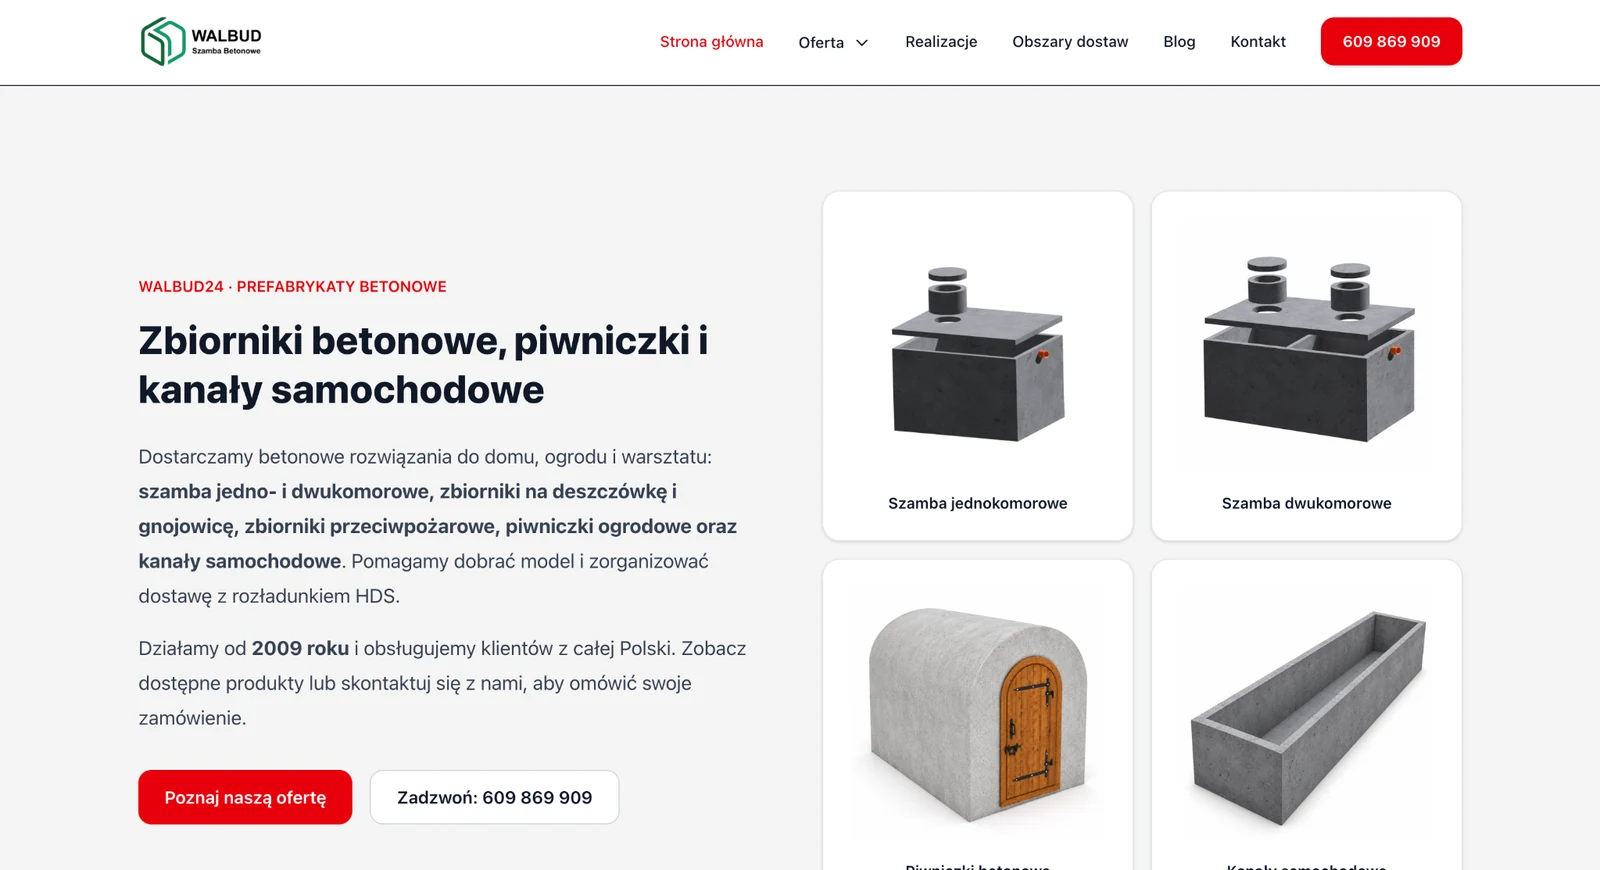
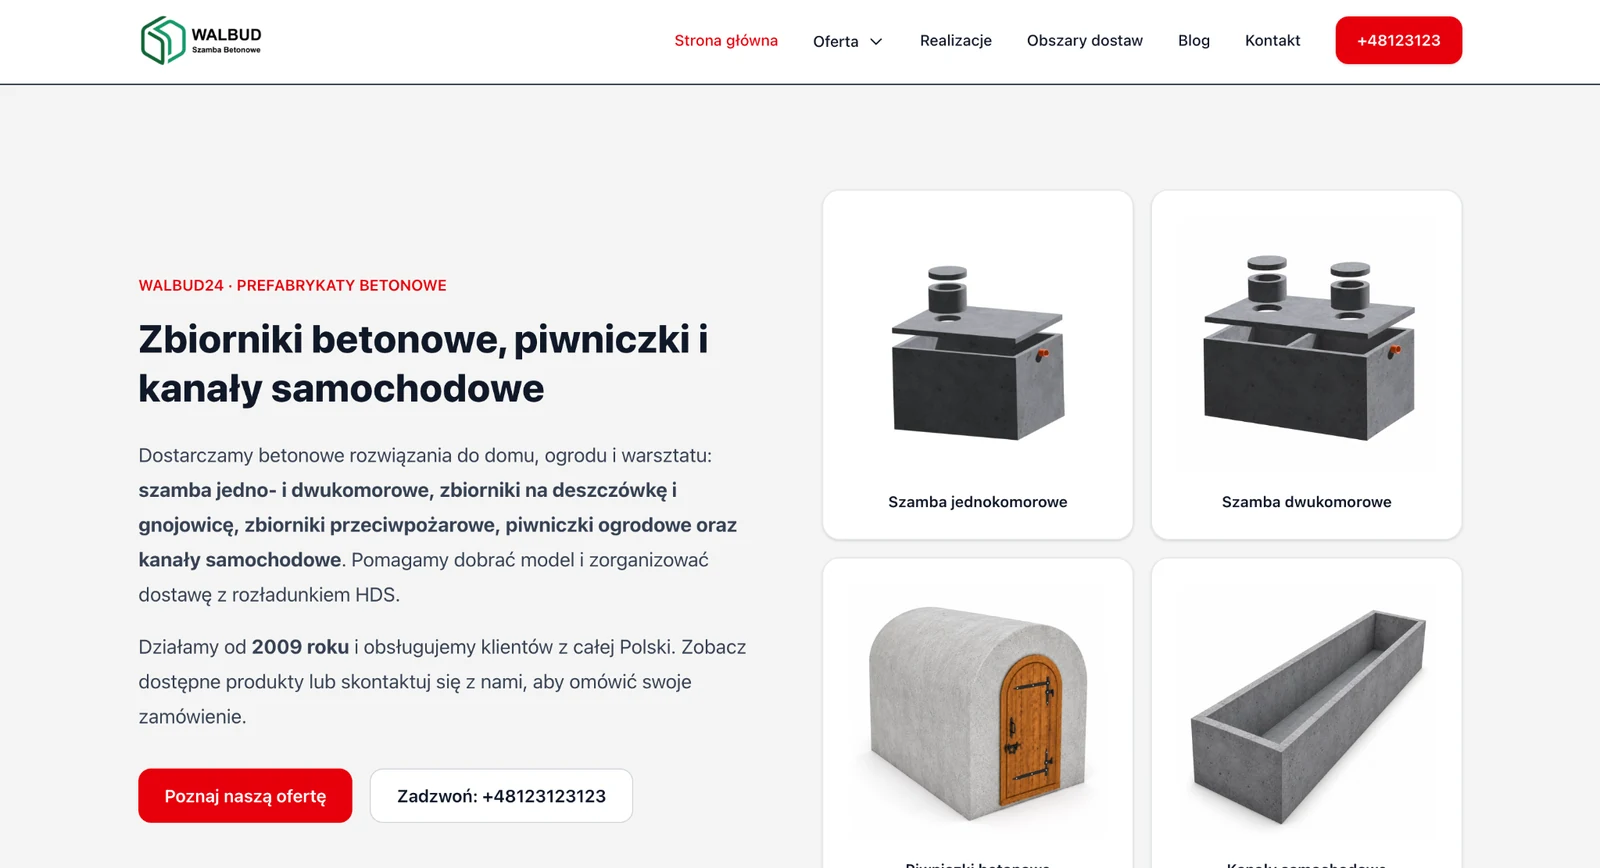
Add Olaya warehouse and invoices plus ParkStop and Walbud previews

diff --git a/resources/css/app.css b/resources/css/app.css
@@ -27,3 +27,5 @@ h1,h2,h3{margin:0;font-weight:500;line-height:1.1;letter-spacing:-.055em;text-wr
 @media(max-width:760px){.work-controls{flex-wrap:wrap}.work-controls button{flex:1 1 100%;border-radius:0!important;padding:14px 18px}.work-controls button+button{border-left:0;border-top:1px solid var(--line)}.work-controls button:first-child{border-right:0}.cermax-feature{grid-template-columns:1fr;padding:30px 7%;gap:25px}.cermax-feature h3{font-size:40px}.cermax-feature>div>p{font-size:14px}.cermax-path li{padding:20px 0}.cermax-path h4{font-size:22px}.cermax-path p{font-size:13px}.cermax-case-intro{padding:26px;grid-template-columns:1fr;gap:22px}.cermax-case-intro .eyebrow{grid-row:auto}.cermax-case-intro h3{font-size:30px}.cermax-case-intro p{font-size:14px}.case-flow{grid-template-columns:1fr;gap:25px}.case-flow h3{margin:14px 0}.case-facts{grid-template-columns:1fr;gap:25px}.compact-case{grid-template-columns:1fr;gap:25px;padding-block:40px}.compact-case h2{font-size:29px}.compact-case p{font-size:14px}.portfolio-index{gap:8px;margin-bottom:35px}.portfolio-index a{font-size:11px;padding:10px 12px}}
 
 .cermax-case>.screenshot-frame{margin-bottom:35px}.cermax-gallery{margin-bottom:35px}
+
+.compact-case-preview{grid-column:1/-1;min-width:0}.compact-case-preview>.screenshot-frame{max-width:1100px;margin-inline:auto}

diff --git a/resources/views/portfolio.blade.php b/resources/views/portfolio.blade.php
@@ -17,10 +17,11 @@
 @include('partials.project-screenshot', ['image'=>'olaya-home','alt'=>'Olaya — strona główna z prezentacją producenta i zdjęciem sauny','caption'=>'Olaya · strona główna'])
 <div class="case-gallery"><figure>@include('partials.project-screenshot', ['image'=>'olaya-catalog','alt'=>'Olaya — katalog modeli saun z kartami produktów i cenami','caption'=>'Olaya · oferta','height'=>866])<figcaption>Oferta — karty modeli, zdjęcia i najważniejsze informacje o produktach.</figcaption></figure><figure>@include('partials.project-screenshot', ['image'=>'olaya-projects','alt'=>'Olaya — galeria realizacji z wyborem produktu i miasta','caption'=>'Olaya · realizacje','height'=>861])<figcaption>Realizacje — prezentacja zdjęć i uporządkowanie ich według produktów oraz miast.</figcaption></figure></div>
 </section>
-<section class="case-preview application-case" id="olaya-aplikacja"><div class="case-heading"><div><span class="eyebrow">FIRMA POWIĄZANA · APLIKACJA OD PODSTAW</span><h2>Olaya — aplikacja do zarządzania</h2></div><p>Wdrożona aplikacja i API do obsługi sprzedaży, produkcji i magazynu. Poniżej przedstawiamy ekran sprzedaży z danymi demonstracyjnymi.</p></div>@include('partials.project-screenshot', ['image'=>'olaya-app-sales','alt'=>'Olaya — panel sprzedaży z demonstracyjnymi zapytaniami, ofertami i zadaniami','caption'=>'Olaya · panel sprzedaży · dane demonstracyjne','height'=>775])
-<div class="application-scope"><article><span class="eyebrow">CEL PROJEKTU</span><h3>Narzędzie do pracy zespołu.</h3><p>Punktem wyjścia są potrzeby zespołu: obsługa zapytań, przygotowanie zleceń, specyfikacje saun i gospodarka materiałowa.</p></article><article><span class="eyebrow">NASZ ZAKRES</span><h3>Aplikacja i API od podstaw.</h3><p>Osobna aplikacja internetowa i API. Wdrożone rozwiązanie obejmuje sprzedaż, produkcję, magazyn oraz role i uprawnienia.</p></article><article><span class="eyebrow">POKAZANY EKRAN</span><h3>Przegląd sprzedaży.</h3><p>Podsumowanie zapytań i ofert, etapy sprzedaży oraz lista zadań. Kwoty i nazwiska na zrzucie są przykładowe.</p></article></div></section>
-<section class="compact-case" id="parkstop"><span class="eyebrow">03 / PARKSTOP · STRONA PARKINGU PRZY LOTNISKU</span><div><h2>Informacje przed podróżą.<br>Rezerwacja w jednym miejscu.</h2><p>Serwis przedstawia zasady korzystania z parkingu, transfer na lotnisko i z powrotem, cennik oraz dojazd. Formularz uwzględnia daty i godziny wylotu oraz powrotu, a odpowiedzi na częste pytania wyjaśniają płatność, anulowanie i odbiór po przylocie.</p><p class="compact-case-result">Strona zbiera informacje potrzebne podróżnemu do zaplanowania postoju i kontaktu z obsługą.</p><a class="text-link" href="https://parkstop.pl/" target="_blank" rel="noopener noreferrer">Zobacz serwis ParkStop ↗</a></div></section>
-<section class="compact-case" id="walbud"><span class="eyebrow">04 / WALBUD · PROJEKT DLA KLIENTA</span><div><h2>Oferta uporządkowana<br>w katalogu produktów.</h2><p>Serwis Walbud / Walbud24 wykonaliśmy od podstaw dla klienta. Kategorie prowadzą do właściwych produktów, realizacje pokazują ich zastosowanie, a formularze ułatwiają wysłanie zapytania. Panel zarządzania pozwala aktualizować produkty i treści serwisu.</p><p class="compact-case-result">Katalog pomaga odbiorcy poznać asortyment i przejść od przeglądania oferty do rozmowy z firmą.</p><div class="tags"><span>Laravel</span><span>Blade</span><span>Filament</span><span>Vite</span></div></div></section>
+<section class="case-preview application-case" id="olaya-aplikacja"><div class="case-heading"><div><span class="eyebrow">FIRMA POWIĄZANA · APLIKACJA OD PODSTAW</span><h2>Olaya — aplikacja do zarządzania</h2></div><p>Wdrożona aplikacja i API do obsługi sprzedaży, produkcji i magazynu. Poniżej pokazujemy sprzedaż, magazyn i faktury z danymi demonstracyjnymi.</p></div>@include('partials.project-screenshot', ['image'=>'olaya-app-sales','alt'=>'Olaya — panel sprzedaży z demonstracyjnymi zapytaniami, ofertami i zadaniami','caption'=>'Olaya · panel sprzedaży · dane demonstracyjne','height'=>775])
+<div class="case-gallery"><figure>@include('partials.project-screenshot', ['image'=>'olaya-app-warehouse','alt'=>'Olaya — panel magazynu: stany materiałów, rezerwacje i historia ruchów na danych demonstracyjnych','caption'=>'Olaya · magazyn · dane demonstracyjne','height'=>868])<figcaption>Magazyn — podgląd materiałów, rezerwacji, niskich stanów oraz ostatnich przyjęć i wydań. Dane demonstracyjne.</figcaption></figure><figure>@include('partials.project-screenshot', ['image'=>'olaya-app-invoices','alt'=>'Olaya — panel faktur: zestawienie sprzedaży i zakupów, terminy oraz statusy płatności na danych demonstracyjnych','caption'=>'Olaya · faktury · dane demonstracyjne','height'=>870])<figcaption>Faktury — zestawienie dokumentów sprzedażowych i zakupowych, kwot, terminów oraz statusów płatności. Dane demonstracyjne.</figcaption></figure></div>
+<div class="application-scope"><article><span class="eyebrow">CEL PROJEKTU</span><h3>Narzędzie do pracy zespołu.</h3><p>Punktem wyjścia są potrzeby zespołu: obsługa zapytań, przygotowanie zleceń, specyfikacje saun i gospodarka materiałowa.</p></article><article><span class="eyebrow">NASZ ZAKRES</span><h3>Aplikacja i API od podstaw.</h3><p>Osobna aplikacja internetowa i API. Wdrożone rozwiązanie obejmuje sprzedaż, produkcję, magazyn oraz role i uprawnienia.</p></article><article><span class="eyebrow">POKAZANE WIDOKI</span><h3>Sprzedaż, magazyn i faktury.</h3><p>Zapytania i oferty, stany materiałów oraz rozliczenia dokumentów. Dane, kwoty i nazwiska na zrzutach są demonstracyjne.</p></article></div></section>
+<section class="compact-case" id="parkstop"><span class="eyebrow">03 / PARKSTOP · STRONA PARKINGU PRZY LOTNISKU</span><div><h2>Informacje przed podróżą.<br>Rezerwacja w jednym miejscu.</h2><p>Serwis przedstawia zasady korzystania z parkingu, transfer na lotnisko i z powrotem, cennik oraz dojazd. Formularz uwzględnia daty i godziny wylotu oraz powrotu, a odpowiedzi na częste pytania wyjaśniają płatność, anulowanie i odbiór po przylocie.</p><p class="compact-case-result">Strona zbiera informacje potrzebne podróżnemu do zaplanowania postoju i kontaktu z obsługą.</p><a class="text-link" href="https://parkstop.pl/" target="_blank" rel="noopener noreferrer">Zobacz serwis ParkStop ↗</a></div><div class="compact-case-preview">@include('partials.project-screenshot', ['image'=>'parkstop-home','alt'=>'ParkStop — strona parkingu przy lotnisku z informacjami o transferze i formularzem dat podróży','caption'=>'ParkStop · strona główna','height'=>869])</div></section>
+<section class="compact-case" id="walbud"><span class="eyebrow">04 / WALBUD · PROJEKT DLA KLIENTA</span><div><h2>Oferta uporządkowana<br>w katalogu produktów.</h2><p>Serwis Walbud / Walbud24 wykonaliśmy od podstaw dla klienta. Kategorie prowadzą do właściwych produktów, realizacje pokazują ich zastosowanie, a formularze ułatwiają wysłanie zapytania. Panel zarządzania pozwala aktualizować produkty i treści serwisu.</p><p class="compact-case-result">Katalog pomaga odbiorcy poznać asortyment i przejść od przeglądania oferty do rozmowy z firmą.</p><div class="tags"><span>Laravel</span><span>Blade</span><span>Filament</span><span>Vite</span></div></div><div class="compact-case-preview">@include('partials.project-screenshot', ['image'=>'walbud-home','alt'=>'Walbud — strona główna z prezentacją zbiorników betonowych, piwniczek i kanałów samochodowych','caption'=>'Walbud / Walbud24 · strona główna','height'=>869])</div></section>
 @php($additionalProjects = $projects->reject(fn ($project) => in_array($project->slug, ['cermax', 'b2b-cermax', 'olaya-strona', 'olaya-aplikacja', 'parkstop', 'walbud24'])))
 @if($additionalProjects->isNotEmpty())<section class="case-preview"><span class="eyebrow">POZNAJ SZCZEGÓŁY</span><h2>Opisy projektów</h2><div class="project-grid">@foreach($additionalProjects as $project)<a class="project-card" href="{{ route('project', $project->slug) }}">@if($project->cover)<img src="{{ Storage::disk('public')->url($project->cover) }}" alt="{{ $project->cover_alt }}" loading="lazy" width="900" height="600">@endif<span class="eyebrow">{{ $project->category }}</span><h3>{{ $project->title }} ↗</h3><p>{{ $project->summary }}</p></a>@endforeach</div></section>@endif
 </section>@include('partials.contact-banner')

diff --git a/tests/Feature/ScreenshotPresentationTest.php b/tests/Feature/ScreenshotPresentationTest.php
@@ -9,17 +9,18 @@ class ScreenshotPresentationTest extends TestCase
     {
         $this->withoutVite();
         $response = $this->get('/realizacje')->assertOk();
-        foreach (['cermax-home','cermax-catalog','cermax-b2b','olaya-home','olaya-catalog','olaya-projects','olaya-app-sales'] as $image) {
+        foreach (['cermax-home','cermax-catalog','cermax-b2b','olaya-home','olaya-catalog','olaya-projects','olaya-app-sales','olaya-app-warehouse','olaya-app-invoices','parkstop-home','walbud-home'] as $image) {
             $response->assertSee($image.'-800.webp')->assertSee($image.'-1600.webp');
             $this->assertFileExists(public_path('images/portfolio/'.$image.'-800.webp'));
             $this->assertFileExists(public_path('images/portfolio/'.$image.'-1600.webp'));
         }
         $this->get('/realizacje/olaya-strona')->assertNotFound();
-        $response->assertDontSee('Materiały projektowe pojawią się')->assertDontSee('walbud-home-800.webp');
+        $response->assertDontSee('Materiały projektowe pojawią się');
         $html = $response->getContent();
         foreach (['parkstop', 'walbud'] as $id) {
             $section = explode('</section>', explode('id="'.$id.'"', $html)[1])[0];
-            $this->assertStringNotContainsString('<img', $section);
+            $this->assertSame(1, substr_count($section, '<img'));
+            $this->assertStringNotContainsString('<a href="/images/', $section);
         }
     }
     public function test_walbud_alone_does_not_leave_an_empty_details_section(): void

diff --git a/docs/DESIGN_NOTES.md b/docs/DESIGN_NOTES.md
@@ -36,3 +36,6 @@ ParkStop evidence: https://parkstop.pl/ public reservation fields for outbound/r
 
 ## Cermax public screenshots
 Owner-supplied image(8).png (catalog), image(9).png (homepage), image(10).png (public B2B information), received 2026-10-26. Optimized to 800/1600px WebP variants without changing screenshot contents. Homepage leads the home-page project preview; catalog and B2B information form the supporting case gallery. Captions explicitly identify the public interface. No authenticated account or cart screenshot is represented. Images remain static and do not enlarge.
+
+## Additional owner-supplied screenshots
+2026-10-26: Olaya warehouse (160945), invoices (160949), ParkStop homepage (160956), Walbud homepage (161004). Optimized from supplied PNG files to 800/1600px WebP without semantic edits. Olaya panels use demonstration-data captions. ParkStop retains the visible temporary closure notice; no current parking availability is claimed. The Walbud screenshot replaces the older asset. All previews are static.
